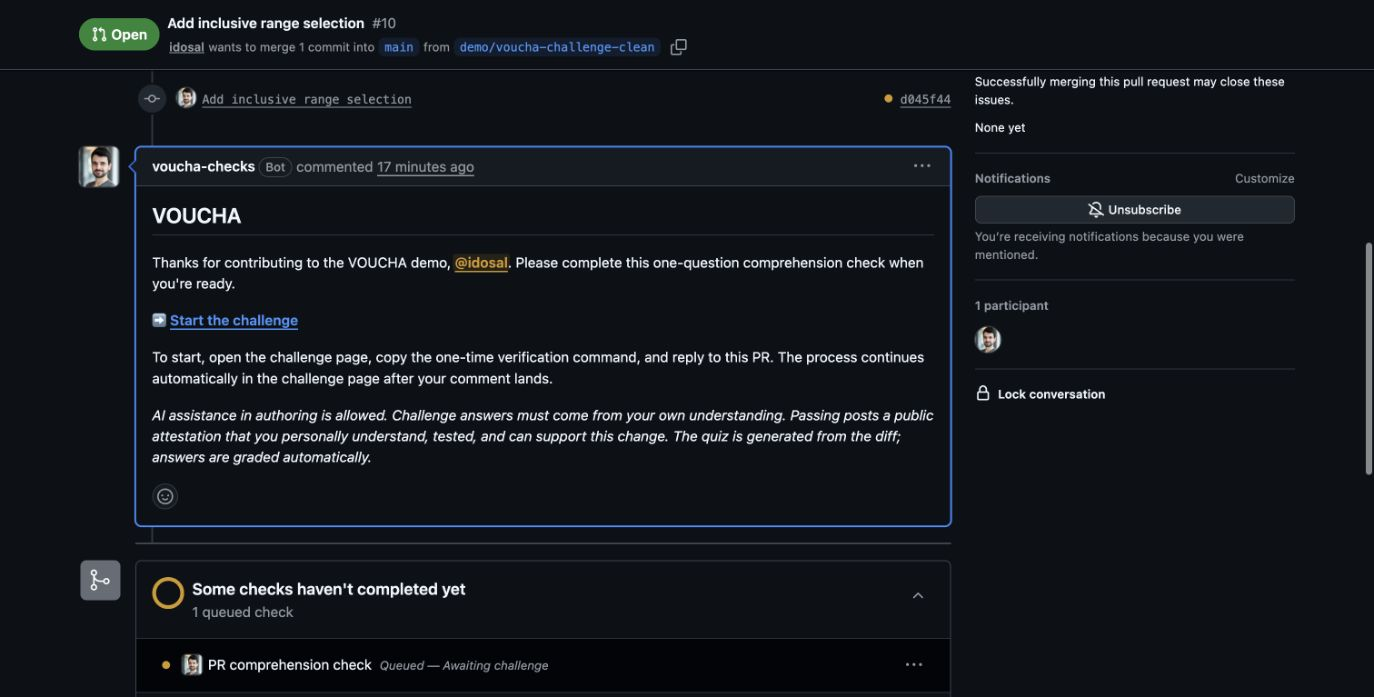
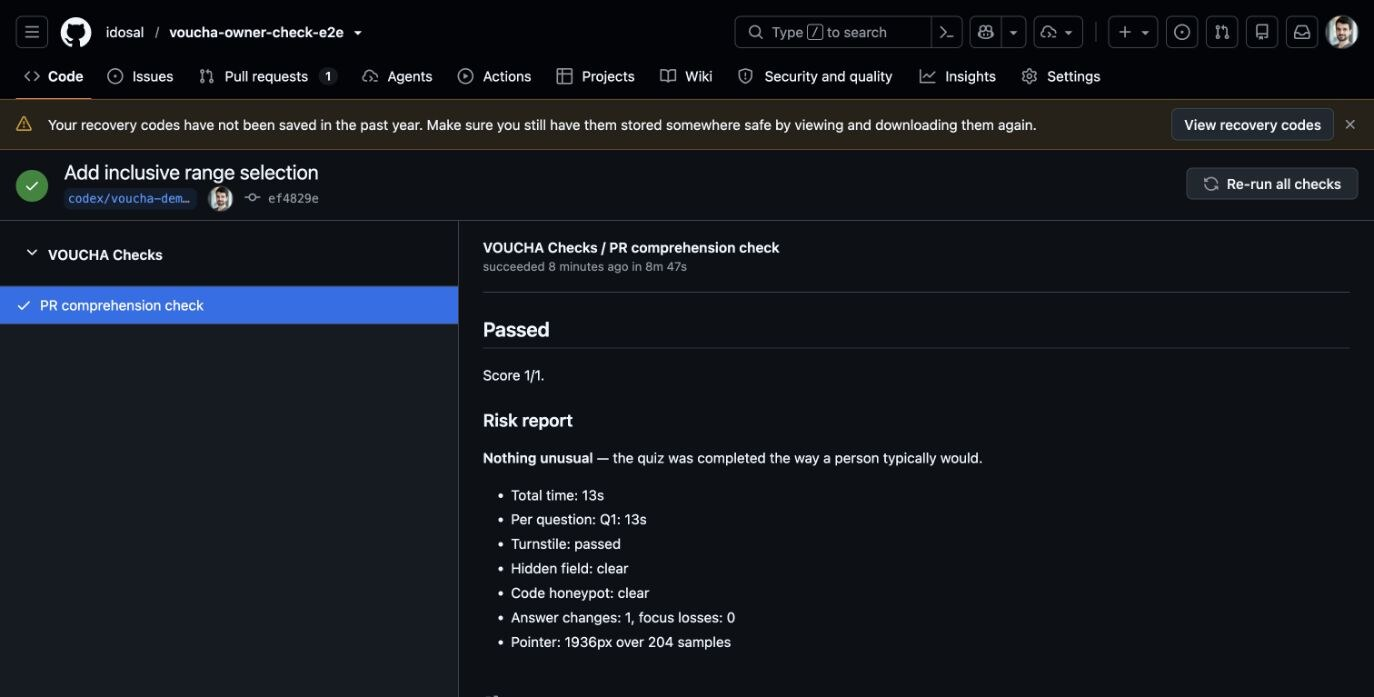
Refresh passed demo proof

diff --git a/README.md b/README.md
@@ -10,7 +10,7 @@ author completes a short challenge generated from the actual diff.
 · **[Product site](https://voucha.dev)**
 · **[Documentation](https://voucha.dev/docs/)**
 
-![VOUCHA uses repository-specific contributor wording in its managed pull request comment](docs/screenshots/voucha-custom-comment.jpg)
+![VOUCHA records the passed challenge and maintainer risk report in its managed pull request comment](docs/screenshots/voucha-custom-comment.jpg)
 
 ## What this demo proves
 
@@ -41,7 +41,7 @@ author completes a short challenge generated from the actual diff.
 5. **Complete the challenge.** The author answers without agent assistance.
    VOUCHA then updates the check and records the outcome on the PR.
 
-![VOUCHA author verification flow](docs/screenshots/voucha-author-verification.jpg)
+![VOUCHA records the completed challenge and public attestation](docs/screenshots/voucha-challenge-result.jpg)
 
 ## Demo policy
 